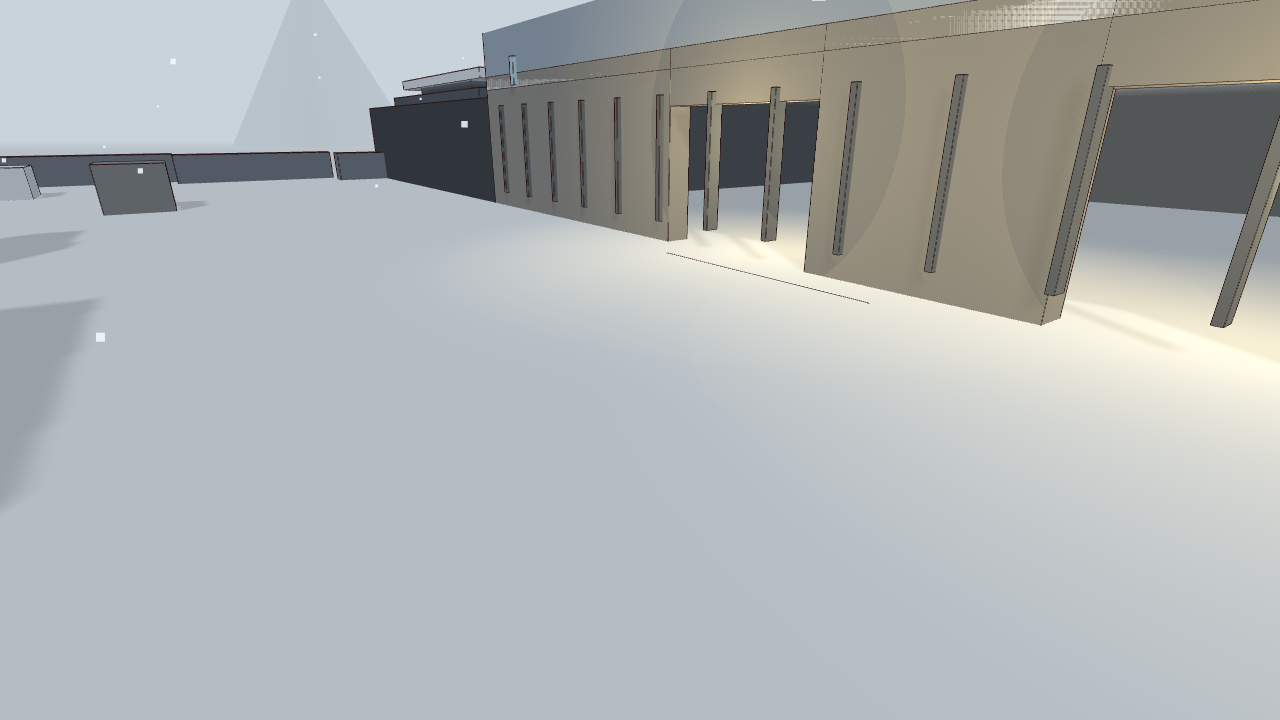
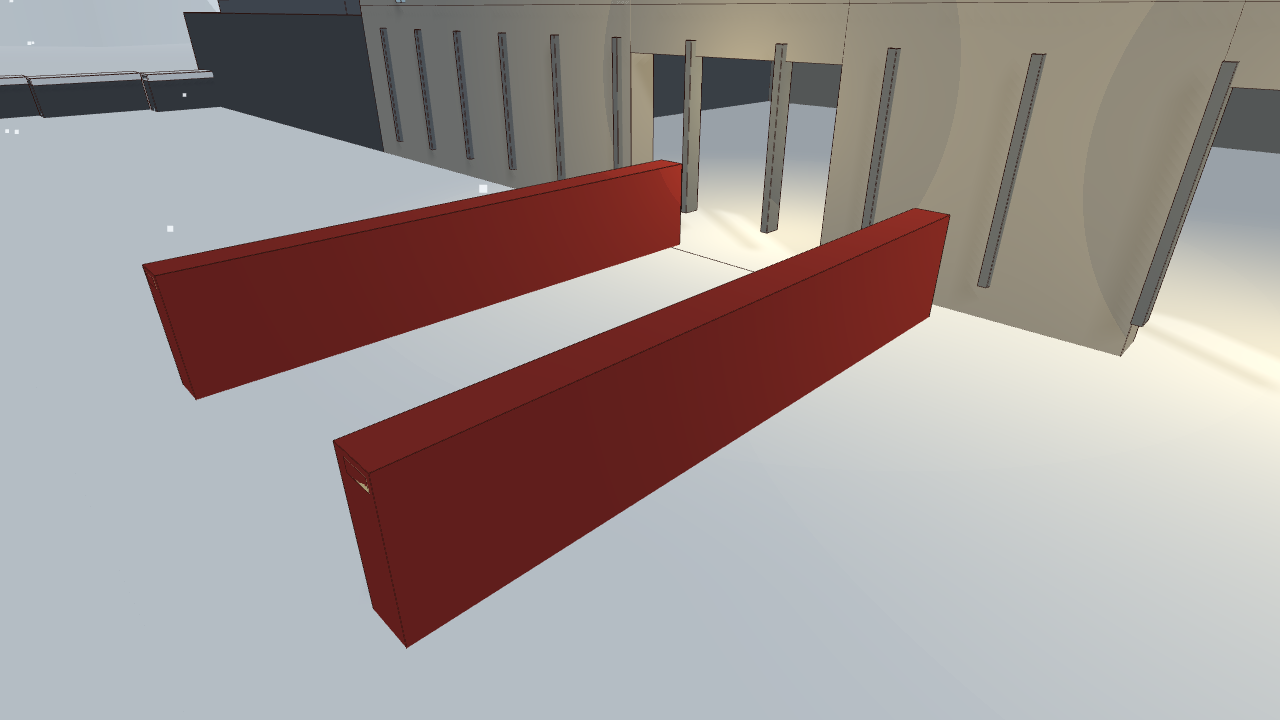
Ajusta o Posto Nevasca na rodada 4: cotas, bordas e a linha de 78 m.
A linha de 78 m era no chão e foi cortada. A Sala Fria passa a 28 por 22 m, alinhada ao prédio do meio, e as bordas leste e oeste ficam só com a mureta de rocha.

diff --git a/maps.js b/maps.js
@@ -542,19 +542,25 @@ export const MAPS = [];
   // encosta oeste: curva de até 5 m, pico em z=-2 (y do pesquisador = 62). Só a borda baixa é visível.
   const bulge = (z) => { const t = (z + 2) / 28; return (t <= -1 || t >= 1) ? 0 : 5 * (1 - t * t); };
   const voids = [], slopes = [];
-  for (let z = -34; z < 28; z += 6) {
-    const z1 = Math.min(28, z + 6);
-    const edge = -24 - Math.max(bulge(z), bulge(z + 3), bulge(z1));
-    boxes.push(B(edge - 0.55, z, edge + 0.15, z1, 1.15, '#7a828c')); // borda de rocha, 1,15 m, mais clara que o muro antigo
+  for (let z = -34; z < 28; z += 3) {
+    const z1 = Math.min(28, z + 3);
+    const edge = -24 - Math.max(bulge(z), bulge(z + 1.5), bulge(z1));
+    boxes.push(B(edge - 0.55, z, edge + 0.15, z1, 1.15, ROCK));
+    boxes.push(B(edge - 0.65, z, edge + 0.25, z1, 0.2, SNOW, 1.0));
     const gap = z1 > -8 && z < 4; // no pico dá para cair
     if (!gap) boxes.push({ b: [edge - 0.35, 0, z, edge + 0.05, 4, z1], hide: true });
     voids.push([-31, z, edge - 0.2, z1]);
     slopes.push({ x0: edge - 16, y0: -30, z0: z, x1: edge - 0.15, y1: 0.15, z1, axis: 'x', dir: 1 });
   }
-  voids.push([-31, 28, -24.2, 60], [-31, -60, -24.2, -34]);
+  voids.push([-31, 28, -24.2, 60], [-31, -60, -24.2, -34], [28.7, -60, 31, 60]);
   slopes.push({ x0: -31, y0: -30, z0: 28, x1: -24.3, y1: 0.15, z1: 58, axis: 'x', dir: 1 });
   slopes.push({ x0: -31, y0: -30, z0: -58, x1: -24.3, y1: 0.15, z1: -34, axis: 'x', dir: 1 });
-  boxes.push(B(26.6, -58, 30.5, 58, 1.15, ROCK)); // leste: borda baixa, não um muro
+  for (let z = -58; z < 58; z += 8) {
+    boxes.push(B(28.2, z, 28.75, Math.min(58, z + 8), 1.15, ROCK));
+    boxes.push(B(28.1, z, 28.9, Math.min(58, z + 8), 0.2, SNOW, 1.0));
+    boxes.push({ b: [28.25, 0, z, 28.55, 4, Math.min(58, z + 8)], hide: true });
+    slopes.push({ x0: 28.55, y0: 0.1, z0: z, x1: 48, y1: -30, z1: Math.min(58, z + 8), axis: 'x', dir: -1 });
+  }
   // mastro da placa, na borda do pico (edge em z=-2 é -29)
   boxes.push(B(-28.85, -2.2, -28.55, -1.8, 2.55, METAL));
   const rock = (x0, z0, x1, z1, h) => {
@@ -566,70 +572,71 @@ export const MAPS = [];
   };
   rock(-27.2, 13, -16.2, 17, 4.2); rock(-26, -34, -12, -30, 4.2);
   rock(-26, -10, -17, -6, 4.2); rock(-24, 48, -17, 51.5, 3.2); rock(-24, -54, -16.5, -50, 3.2);
-  rock(-14, 2, -6, 8, 3.2); rock(-24, 16, -17.2, 22, 3.4); rock(-11, -14, -3, -8, 3.4);
-  boxes.push(B(12.4, -15.6, 17.4, -10.8, 4.5, ROCK), B(13.2, -14.8, 16.5, -11.6, 0.35, SNOW, 4.3));
-  boxes.push(B(-5.4, -1, -2.35, 7, 4.0, CONC)); // ala oeste da Sala Fria, corta a diagonal pro sul
+  rock(-24, 16, -17.2, 22, 3.4); rock(-11, -14, -3, -8, 3.4);
+  rock(14.5, 16.5, 27, 21, 2.4); rock(13.2, -15, 26, -10, 2.4); boxes.push(B(13.2, -15, 26, -10, 1.5, ROCK, -1.5)); rock(12.4, -50, 22, -44, 2.4);
+  boxes.push(B(10.2, -23.8, 13.6, -20.2, 3.8, '#6E5438', -1.5)); // contêiner: corta a linha de 78 m no chão, topo a +2,3 m
+  boxes.push(B(-12.2, -19.6, -7.2, -16.2, 3.8, ROCK, -1.5)); // 2,2 m acima do chão alto, no meio da linha de 61 m
   for (const z of [24, 10, -4, -18]) boxes.push(B(-23.4, z, -21.8, z + 1.5, 1.0, SNOW));
 
   // lab: x −14…10, z 36…46. No eixo do pesquisador (y = 60 − z) isso é y 14…24, x 12…36.
-  boxes.push(...building(-14, 36, 10, 46, { col: { ...col, wall: CONC, wall2: '#c8c2b6' }, floors: 1, H: 3.5, parapet: 0.6,
-    ops: [{ s: 'n', a: -8, b: -5 }, { s: 'n', a: 2, b: 5.2 }, { s: 's', a: -2, b: 1.2 }, { s: 'e', a: 38, b: 41 },
-      { s: 'n', a: -12, b: -9.5, k: 'win', lo: 1.05, hi: 2.15 }, { s: 'w', a: 38, b: 41.2, k: 'win', lo: 1.05, hi: 2.1 }],
-    inner: [{ axis: 'x', s0: -13.4, s1: 9.4, line: 41.2, ops: [{ a: -2.2, b: 1.2 }] }] }));
+  boxes.push(...building(-8, 36, 7, 46, { col: { ...col, wall: CONC, wall2: '#c8c2b6' }, floors: 1, H: 3.5, parapet: 0.6,
+    ops: [{ s: 'n', a: -5, b: -1.6 }, { s: 'n', a: 1.4, b: 4.8 }, { s: 's', a: -2, b: 1.4 }, { s: 'e', a: 38, b: 41 },
+      { s: 'n', a: -7.2, b: -4.6, k: 'win', lo: 1.05, hi: 2.15 }, { s: 'w', a: 38, b: 41.2, k: 'win', lo: 1.05, hi: 2.1 }],
+    inner: [{ axis: 'x', s0: -7.4, s1: 6.4, line: 41.2, ops: [{ a: -1.4, b: 1.6 }] }] }));
   // prédios do meio, 12 m ao sul da rodada 2. Corredor de 3,6 m (x −2…1,6).
   // Oeste: x −16…−2, z 19…31 (14×12 m), 2º piso a +3,4 m. Leste: x 1,6…19,6, z 18…32 (18×14 m).
   boxes.push(...building(-16, 19, -2, 31, { col: { ...col, wall: '#c4bfb4', wall2: CONC }, floors: 2, H, parapet: 1.7,
     ops: [{ s: 'n', a: -10, b: -6.4 }, { s: 's', a: -12, b: -8.4 }, { s: 'e', a: 22, b: 25.6 }, { s: 'w', a: 24, b: 27.4 },
       { s: 'e', a: 26, b: 29.5, f: 1, k: 'win', lo: 0.85, hi: 2.05 }, { s: 'n', a: -10, b: -6, f: 1, k: 'win', lo: 0.85, hi: 2.05 }],
     stairs: [{ f: 0, r: [-13.5, 21.2, -6.8, 24.2], axis: 'x', dir: 1 }] }));
-  boxes.push(...building(1.6, 18, 19.6, 32, { col: { ...col, wall: '#d4cfc4', wall2: CONC }, floors: 2, H, parapet: 1.7,
-    ops: [{ s: 'n', a: 6, b: 9.6, k: 'wide' }, { s: 's', a: 8, b: 11.6 }, { s: 'w', a: 22, b: 25.6 }, { s: 'e', a: 24, b: 27.4 },
-      { s: 's', a: 14, b: 17.5, f: 1, k: 'win', lo: 0.85, hi: 2.05 }],
-    stairs: [{ f: 0, r: [4, 20.2, 11.2, 23.4], axis: 'x', dir: 1 }, { f: 1, r: [4, 26, 11.2, 29.2], axis: 'x', dir: 1 }] }));
-  C(8.5, 28, 1.6, 1.1, '#6E7378', H); C(14, 24, 1.2, 0.9, RUST);
+  boxes.push(...building(1.2, 18, 14.2, 32, { col: { ...col, wall: '#d4cfc4', wall2: CONC }, floors: 2, H, parapet: 1.7,
+    ops: [{ s: 'n', a: 4, b: 7.6, k: 'wide' }, { s: 's', a: 6, b: 9.6 }, { s: 'w', a: 22, b: 25.6 }, { s: 'e', a: 24, b: 27.4 },
+      { s: 's', a: 8, b: 11.4, f: 1, k: 'win', lo: 0.85, hi: 2.05 }],
+    stairs: [{ f: 0, r: [3.2, 20.2, 9.4, 23.4], axis: 'x', dir: 1 }, { f: 1, r: [3.2, 26, 9.4, 29.2], axis: 'x', dir: 1 }] }));
+  C(6.5, 28, 1.6, 1.1, '#6E7378', H); C(11, 24, 1.2, 0.9, RUST);
   for (let z = 20; z < 30; z += 1.6) boxes.push(B(-16.15, z, -15.95, z + 0.1, 3.2, METAL2, 0.15));
   // alas que colam o lab nos prédios do meio: o miolo lê como um bloco, o corredor central fica aberto
-  boxes.push(...building(-16, 31.3, -4, 35.7, { col: { ...col, wall: CONC, wall2: '#c8c2b6' }, floors: 1, H: 3.2, parapet: 0.45,
-    ops: [{ s: 'n', a: -12, b: -8.4 }, { s: 's', a: -12, b: -8.4 }, { s: 'e', a: 32.2, b: 34.8 }] }));
-  boxes.push(...building(4, 32.2, 18, 35.8, { col: { ...col, wall: '#d4cfc4', wall2: CONC }, floors: 1, H: 3.2, parapet: 0.45,
-    ops: [{ s: 'n', a: 8, b: 12 }, { s: 's', a: 8, b: 12 }] }));
-  boxes.push(B(-12, 16.05, 16, 17.9, 0.32, SNOW, 3.15)); // telhado-ponte entre o bloco leste e a Sala Fria
+  boxes.push(...building(-8, 31.3, -2.2, 35.7, { col: { ...col, wall: CONC, wall2: '#c8c2b6' }, floors: 1, H: 3.2, parapet: 0.45,
+    ops: [{ s: 'n', a: -6.4, b: -3.2 }, { s: 's', a: -6.4, b: -3.2 }, { s: 'e', a: 32.2, b: 34.8 }] }));
+  boxes.push(...building(2, 32.2, 12, 35.8, { col: { ...col, wall: '#d4cfc4', wall2: CONC }, floors: 1, H: 3.2, parapet: 0.45,
+    ops: [{ s: 'n', a: 4.4, b: 8 }, { s: 's', a: 4.4, b: 8 }] }));
+  boxes.push(B(1.4, 15.85, 12.2, 18.25, 0.45, SNOW, 3.25)); // telhado entre o bloco leste e a Sala Fria
 
   // SALA FRIA / control room: 22 × 22 m, mezanino a +3,4 m, átrio aberto, 5 portas
   // Sala Fria: x −2…20, z −6…16 → y do pesquisador 44…66, x 24…46.
-  boxes.push(...building(-2, -6, 20, 16, { col: { ...col, wall: CONC, wall2: '#c8c2b6', inner: '#C4BFB4' }, floors: 2, H, roof: false,
-    ops: [{ s: 'w', a: 2.2, b: 5.8 }, { s: 'e', a: 0.2, b: 3.8 }, { s: 'n', a: 6, b: 9.4 }, { s: 's', a: 4, b: 7.6 }, { s: 's', a: 13, b: 16.4 },
-      { s: 's', a: 8.2, b: 12.2, k: 'win', lo: 1.0, hi: 2.15 },
-      { s: 's', a: 8, b: 12.4, f: 1, k: 'win', lo: 0.75, hi: 2.15 }, { s: 'n', a: 8, b: 12.4, f: 1, k: 'win', lo: 0.75, hi: 2.15 },
-      { s: 'w', a: -3.5, b: 0, f: 1, k: 'win', lo: 0.8, hi: 2.05 }, { s: 'e', a: 8, b: 12, f: 1, k: 'win', lo: 0.8, hi: 2.05 }],
-    stairs: [{ f: 0, r: [1.6, 9.2, 10.2, 12.2], axis: 'x', dir: 1 }],
-    floorHoles: { 1: [[-1.4, -5.4, 15.4, 8.4]] } }));
-  boxes.push(...slab(-2, -6, 20, 16, 2 * H, 0.35, SNOW, [[5, -1, 13, 13]]));
+  boxes.push(...building(-16, -6, 12, 16, { col: { ...col, wall: CONC, wall2: '#c8c2b6', inner: '#C4BFB4' }, floors: 2, H, roof: false,
+    ops: [{ s: 'w', a: 2.2, b: 5.8 }, { s: 'e', a: 0.2, b: 3.8 }, { s: 'n', a: -6, b: -2.4 }, { s: 's', a: -8, b: -4.4 }, { s: 's', a: 2, b: 5.6 },
+      { s: 's', a: -2, b: 2, k: 'win', lo: 1.0, hi: 2.15 },
+      { s: 'n', a: -4, b: 0.4, f: 1, k: 'win', lo: 0.75, hi: 2.15 },
+      { s: 'w', a: -3.5, b: 0, f: 1, k: 'win', lo: 0.8, hi: 2.05 }, { s: 'e', a: 4, b: 8, f: 1, k: 'win', lo: 0.8, hi: 2.05 }],
+    stairs: [{ f: 0, r: [-4.2, 9.2, 4.4, 12.2], axis: 'x', dir: 1 }],
+    floorHoles: { 1: [[-10, -5.4, 6, 8.4]] } }));
+  boxes.push(...slab(-16, -6, 12, 16, 2 * H, 0.35, SNOW, [[-6, -1, 2, 11]]));
   // guarda-corpo tubular de 1 m no mezanino
   const tube = (x0, z0, x1, z1) => {
     boxes.push(B(Math.min(x0, x1), Math.min(z0, z1), Math.max(x0, x1), Math.max(z0, z1), 0.07, METAL, H + 0.9));
     boxes.push(B(Math.min(x0, x1), Math.min(z0, z1), Math.max(x0, x1), Math.max(z0, z1), 0.05, METAL, H + 0.42));
   };
-  tube(-1.3, 8.22, 15.1, 8.4); tube(-1.3, -5.45, 15.1, -5.28);
-  tube(15.15, -5.3, 15.32, 8.3); tube(-1.55, -5.3, -1.38, 8.3);
-  for (let x = -1; x <= 14.6; x += 1.8) { boxes.push(B(x, 8.18, x + 0.08, 8.44, 1.0, METAL, H)); boxes.push(B(x, -5.48, x + 0.08, -5.22, 1.0, METAL, H)); }
-  for (let z = -5; z <= 8; z += 1.8) { boxes.push(B(15.12, z, 15.36, z + 0.08, 1.0, METAL, H)); boxes.push(B(-1.58, z, -1.34, z + 0.08, 1.0, METAL, H)); }
-  // consoles com tampo inclinado e telas
-  boxes.push(R(2.4, 0.6, 7.2, 2.2, 0.55, 1.15, 'z', 1, '#3e4852'), R(2.4, 4.2, 7.2, 5.8, 0.55, 1.15, 'z', 1, '#3e4852'));
-  for (const [x, z] of [[3.1, 1.9], [4.6, 1.9], [6.1, 1.9], [3.1, 5.5], [4.6, 5.5], [6.1, 5.5]]) boxes.push(B(x, z, x + 0.7, z + 0.08, 0.42, '#5ee0c8', 0.78));
-  for (const [x, z] of [[16.3, -3.6], [16.3, -1.4], [16.3, 10.2], [16.3, 12.4], [-0.5, -3.2], [3.4, 12.6]]) {
-    boxes.push(B(x, z, x + 0.65, z + 1.35, 2.0, '#8b949c'));
-    boxes.push(B(x + 0.08, z + 0.15, x + 0.57, z + 1.2, 0.06, '#d5dbe0', 0.7), B(x + 0.08, z + 0.15, x + 0.57, z + 1.2, 0.06, '#d5dbe0', 1.35));
+  tube(-9.6, 8.22, 5.6, 8.4); tube(-9.6, -5.45, 5.6, -5.28);
+  tube(5.85, -5.3, 6.05, 8.3); tube(-10.15, -5.3, -9.95, 8.3);
+  for (let x = -9.4; x <= 5.4; x += 1.8) { boxes.push(B(x, 8.18, x + 0.08, 8.44, 1.0, METAL, H)); boxes.push(B(x, -5.48, x + 0.08, -5.22, 1.0, METAL, H)); }
+  for (let z = -5; z <= 8; z += 1.8) { boxes.push(B(5.82, z, 6.08, z + 0.08, 1.0, METAL, H)); boxes.push(B(-10.18, z, -9.92, z + 0.08, 1.0, METAL, H)); }
+  boxes.push(R(-8.2, 0.4, -2.4, 2.2, 0.55, 1.15, 'z', 1, '#3e4852'), R(-8.2, 4.0, -2.4, 5.8, 0.55, 1.15, 'z', 1, '#3e4852'));
+  for (const [x, z] of [[-7.4, 1.85], [-5.6, 1.85], [-3.8, 1.85], [-7.4, 5.4], [-5.6, 5.4], [-3.8, 5.4]]) boxes.push(B(x, z, x + 0.85, z + 0.1, 0.48, '#5ee0c8', 0.82));
+  for (const [x, z] of [[9.6, -3.4], [9.6, -1.2], [9.6, 8.4], [9.6, 10.6], [-14.6, -2.8], [-14.6, 8.8]]) {
+    boxes.push(B(x, z, x + 0.7, z + 1.4, 2.0, '#8b949c'));
+    boxes.push(B(x + 0.08, z + 0.15, x + 0.62, z + 1.25, 0.07, '#e8eef3', 0.65), B(x + 0.08, z + 0.15, x + 0.62, z + 1.25, 0.07, '#e8eef3', 1.3));
   }
-  C(11.2, 13.2, 1.3, 1.05, METAL, H);
-  for (let x = -1; x < 19; x += 1.7) boxes.push(B(x, 15.85, x + 0.12, 16.12, 3.1, METAL2, 0.2));
+  C(-1, 13.2, 1.3, 1.05, METAL, H);
+  for (let x = -15; x < 11; x += 1.7) boxes.push(B(x, 15.85, x + 0.12, 16.12, 3.1, METAL2, 0.2));
+  // beiral arredondado: faixa de neve 30 cm para fora, 32 cm abaixo da laje
+  boxes.push(B(-16.3, -6.3, 12.3, -6, 0.32, SNOW, 6.45), B(-16.3, 16, 12.3, 16.3, 0.32, SNOW, 6.45));
+  boxes.push(B(-16.3, -6, -16, 16, 0.32, SNOW, 6.45), B(12, -6, 12.3, 16, 0.32, SNOW, 6.45));
 
   // salas estreitas a leste (CQB), parede oeste é a da sala fria
-  boxes.push(...building(20, -4, 26, 20, { col, floors: 1, H: 3.3, parapet: 0.4, noWall: ['w0'],
-    ops: [{ s: 'e', a: 0, b: 3 }, { s: 'e', a: 10, b: 13 }, { s: 's', a: 23.4, b: 25.6 }, { s: 'n', a: 20.6, b: 22.4 }],
-    inner: [{ axis: 'x', s0: 20.4, s1: 25.6, line: 6, ops: [{ a: 23.2, b: 25.4 }] }, { axis: 'x', s0: 20.4, s1: 25.6, line: 13, ops: [{ a: 20.8, b: 22.6 }] }] }));
-  boxes.push(B(21.4, 28, 23.2, 32, 2.6, ROCK), B(21.4, -20, 23.2, -16, 2.6, ROCK), B(21.4, -42, 23.2, -38, 2.6, ROCK));
-  boxes.push(B(24.6, 24, 30.2, 28.5, 3.1, ROCK), B(24.6, -10, 30.2, -5.5, 3.1, ROCK), B(24.6, -36, 30.2, -31.5, 3.1, ROCK), B(24.6, 48, 30.2, 52, 3.1, ROCK));
+  boxes.push(...building(12, -2, 18, 14, { col, floors: 1, H: 3.3, parapet: 0.4, noWall: ['w0'],
+    ops: [{ s: 'e', a: 1, b: 4.2 }, { s: 'e', a: 8, b: 11.2 }, { s: 's', a: 13.2, b: 16.2 }, { s: 'n', a: 13.2, b: 16.2 }],
+    inner: [{ axis: 'x', s0: 12.4, s1: 17.6, line: 4, ops: [{ a: 13.4, b: 16.2 }] }, { axis: 'x', s0: 12.4, s1: 17.6, line: 9, ops: [{ a: 12.8, b: 15.4 }] }] }));
 
   // galpão sul + rampa pro telhado (antena)
   boxes.push(...building(-12, -46, 12, -30, { col: { ...col, wall: CONC }, floors: 1, H: 3.6, parapet: 1.15,
@@ -637,13 +644,15 @@ export const MAPS = [];
     roofGaps: [{ s: 'n', a: -2.6, b: 2.6 }] }));
   boxes.push(B(-2.7, -49.4, 2.7, -46, 0.28, SNOW, 3.32), R(-2.2, -55.2, 2.2, -49.2, 0, 3.6, 'z', 1, METAL));
   boxes.push(B(3.55, -38.45, 3.95, -38.05, 6.2, RUST, 3.6), B(3.2, -39.3, 4.3, -38.9, 0.35, RUST, 9.5));
+  boxes.push(B(-4.2, -44.2, 1.4, -39.6, 2.5, METAL2, 3.6)); // casa de máquina: corta a visada pelo telhado
   for (let x = -11; x < 11; x += 1.5) boxes.push(B(x, -30.15, x + 0.1, -29.9, 2.4, METAL2, 0.4));
   // pátio sul a −1,5 m. Lábio na borda norte e escada metálica vindo do galpão.
-  boxes.push(B(-14, -26, 18, -6, 0.3, '#c5ced6', -1.8));
-  boxes.push(B(-14, -6.35, 18, -6, 0.55, ROCK));
-  boxes.push(R(-2.2, -29.2, 2.2, -23.4, -1.5, 0, 'z', -1, '#d5dbe2'));
-  boxes.push(B(-2.45, -29.2, -2.15, -23.4, 1.05, METAL, -1.35), B(2.15, -29.2, 2.45, -23.4, 1.05, METAL, -1.35));
-  boxes.push(B(-2.4, -29.2, -2.22, -23.4, 0.08, METAL2, -0.35), B(2.22, -29.2, 2.4, -23.4, 0.08, METAL2, -0.35));
+  boxes.push(B(-14, -26, 18, -6, 0.28, '#9aa6b0', -1.78));
+  boxes.push(B(-14, -6.4, 18, -6, 1.5, ROCK));
+  boxes.push(R(-1.8, -29.4, 1.8, -23.2, -1.5, 0, 'z', -1, '#8A8D8F'));
+  for (let i = 0; i < 6; i++) boxes.push(B(-1.55, -29.2 + i * 1.0, 1.55, -28.35 + i * 1.0, 0.08, '#d5dbe2', -1.42 + i * 0.25));
+  boxes.push(B(-2.15, -29.6, -1.75, -23.0, 2.7, '#8E2F2A', -1.5), B(1.75, -29.6, 2.15, -23.0, 2.7, '#8E2F2A', -1.5));
+  boxes.push(B(-2.1, -29.6, -1.85, -23.0, 0.1, '#F2D9A0', 1.05), B(1.85, -29.6, 2.1, -23.0, 0.1, '#F2D9A0', 1.05));
 
   // torre treliçada (+8,1 m), a oeste do bloco do meio, fora do corredor
   boxes.push(R(-22.4, 22, -19.6, 30, 0, 4.05, 'z', 1, METAL), B(-22.8, 29.4, -19.2, 32.2, 0.24, METAL, 3.81));
@@ -657,8 +666,8 @@ export const MAPS = [];
   boxes.push(B(-23.2, 39.2, -18.4, 39.45, 1.75, METAL2, 8.15), B(-23.2, 44.35, -21.6, 44.6, 1.75, METAL2, 8.15), B(-19.6, 44.35, -18.4, 44.6, 1.75, METAL2, 8.15));
   boxes.push(B(-23.2, 39.2, -22.95, 44.6, 1.75, METAL2, 8.15), B(-18.65, 39.2, -18.4, 44.6, 1.75, METAL2, 8.15));
   // painel cego de 1,1 m no flanco leste da rampa (olha para SE). Janela de 2 m no norte, entre x −21,6 e −19,6.
-  boxes.push(B(-19.42, 22, -19.18, 26.2, 1.1, METAL, 0.5), B(-19.42, 26.2, -19.18, 30, 1.1, METAL, 2.3));
-  boxes.push(B(-19.42, 32, -19.18, 36.2, 1.1, METAL, 4.6), B(-19.42, 36.2, -19.18, 39.2, 1.1, METAL, 6.4));
+  boxes.push(B(-19.55, 22, -19.22, 42.2, 1.1, METAL, 0.2));
+  boxes.push(B(-19.55, 24, -19.22, 30, 1.1, METAL, 1.6), B(-19.55, 31.4, -19.22, 38, 1.1, METAL, 4.4), B(-19.55, 38, -19.22, 42.2, 1.1, METAL, 6.6));
   // bloqueador alto ~30 m ao sul da rampa, no caminho da visada para o sudeste
   boxes.push(B(-10.4, 0.2, -9.9, 4.6, 6.6, METAL2), B(-12.2, 1.4, -10.6, 4.8, 0.18, METAL, 6.15));
   boxes.push(B(-9.2, 2.2, -8.7, 5.4, 6.6, METAL2));
@@ -677,8 +686,6 @@ export const MAPS = [];
   boxes.push(R(-22.65, 43.15, -17.6, 45.85, 0, gy, 'x', -1, METAL));
   boxes.push({ wp: [-21.3, gy, 44.5] }, { wp: [-24.2, gy, 44.5] }, { wp: [-20.6, 8.15, 42] }, { wp: [-21, 4.05, 31] });
   // dois cabos: cabine → torre → fora do mapa, para a neblina
-  boxes.push(B(-24.6, 43.45, -18.6, 43.72, 0.16, '#c5ccd2', 8.55), B(-24.6, 45.15, -18.6, 45.42, 0.16, '#c5ccd2', 7.7));
-  boxes.push(B(-31.2, 43.45, -24.4, 43.72, 0.16, '#c5ccd2', 11.2), B(-31.2, 45.15, -24.4, 45.42, 0.16, '#c5ccd2', 12.4));
 
   // montes de neve (0,55–1,0 m) e caixotes de cobertura — pátio norte, vão central, pátio sul
   for (const [x, z, s, h] of [[-17.4, 22, 1.8, 1], [-17.4, 27, 1.6, 0.9], [-17.2, 38, 1.7, 1], [-3.4, 33.4, 1.6, 1],
@@ -697,44 +704,51 @@ export const MAPS = [];
     { t: 'truck', x: 1.5, z: -18.5, y: -1.5, c: '#4A4E54' },
     { t: 'pine', x: -21.2, z: -56, s: 1.15 }, { t: 'pine', x: 21.2, z: 55.2, s: 1.25 }, { t: 'pine', x: 23.2, z: 2.2, s: 1.05 },
     { t: 'pine', x: 22.4, z: -27, s: 1.1 }, { t: 'pine', x: -16.2, z: 26.5, s: 0.95 }, { t: 'pine', x: 18.5, z: -52, s: 1.2 },
-    { t: 'sign', x: 6, y: 4.5, z: 16.35, w: 6.2, h: 1.35, rot: 0, text: 'SALA FRIA', bg: RUST, fg: '#F2D9A0' },
+    { t: 'sign', x: -2, y: 4.5, z: 16.35, w: 6.2, h: 1.35, rot: 0, text: 'SALA FRIA', bg: RUST, fg: '#F2D9A0' },
     { t: 'sign', x: -28.7, y: 2.45, z: -2, w: 2.3, h: 1.05, rot: Math.PI / 2, text: 'PENHASCO', bg: RUST, fg: '#fff' },
     { t: 'sign', x: 0, y: 3.2, z: -29.6, w: 5.5, h: 1.2, rot: Math.PI, text: 'GALPÃO', bg: '#3E4248', fg: SNOW },
-    { t: 'sign', x: 4, y: 5.2, z: 15.15, w: 3.2, h: 0.7, rot: Math.PI, text: '09:40', bg: '#1c242c', fg: '#F2D9A0' },
-    { t: 'clock', x: 8.2, y: 5.2, z: 15.15, w: 2.4, h: 0.7, rot: Math.PI },
-    { t: 'sign', x: 12.2, y: 5.2, z: 15.15, w: 3.2, h: 0.7, rot: Math.PI, text: '18:10', bg: '#1c242c', fg: '#F2D9A0' },
-    { t: 'pane', x0: 5.2, z0: -0.8, x1: 8.8, z1: 4.6, y: 6.78, axis: 'y', c: 0xBFDDEB, o: 0.38 },
-    { t: 'pane', x0: 9.2, z0: -0.8, x1: 12.8, z1: 4.6, y: 6.78, axis: 'y', c: 0xBFDDEB, o: 0.38 },
-    { t: 'pane', x0: 5.2, z0: 5.2, x1: 8.8, z1: 10.6, y: 6.78, axis: 'y', c: 0xBFDDEB, o: 0.38 },
-    { t: 'pane', x0: 9.2, z0: 5.2, x1: 12.8, z1: 10.6, y: 6.78, axis: 'y', c: 0xBFDDEB, o: 0.38 },
+    { t: 'sign', x: -6.2, y: 5.2, z: 15.15, w: 2.6, h: 0.7, rot: Math.PI, text: '09:40', bg: '#1c242c', fg: '#F2D9A0' },
+    { t: 'clock', x: -2, y: 5.2, z: 15.15, w: 2.4, h: 0.7, rot: Math.PI },
+    { t: 'sign', x: 2.4, y: 5.2, z: 15.15, w: 2.6, h: 0.7, rot: Math.PI, text: '18:10', bg: '#1c242c', fg: '#F2D9A0' },
+    { t: 'pane', x0: -6, z0: -1, x1: -2, z1: 5, y: 6.72, axis: 'y', c: 0xBFDDEB, o: 0.35 },
+    { t: 'pane', x0: -2, z0: -1, x1: 2, z1: 5, y: 6.72, axis: 'y', c: 0xBFDDEB, o: 0.35 },
+    { t: 'pane', x0: -6, z0: 5, x1: -2, z1: 11, y: 6.72, axis: 'y', c: 0xBFDDEB, o: 0.35 },
+    { t: 'pane', x0: -2, z0: 5, x1: 2, z1: 11, y: 6.72, axis: 'y', c: 0xBFDDEB, o: 0.35 },
+    { t: 'glow', x0: -6, z0: -1, x1: 2, z1: 11, y: 6.55, c: 0xF2D9A0, o: 0.55 },
+    { t: 'cable', x0: -24.2, y0: 5.3, z0: 44.2, x1: -21.2, y1: 12.4, z1: 41.5, c: '#1c2228', r: 0.08 },
+    { t: 'cable', x0: -24.2, y0: 5.3, z0: 45.4, x1: -21.2, y1: 12.4, z1: 42.8, c: '#1c2228', r: 0.08 },
+    { t: 'cable', x0: -21.2, y0: 12.4, z0: 41.5, x1: -38, y1: 20, z1: 28, c: '#1c2228', r: 0.07 },
+    { t: 'cable', x0: -21.2, y0: 12.4, z0: 42.8, x1: -36, y1: 22, z1: 55, c: '#1c2228', r: 0.07 },
     { t: 'pane', x0: -25.5, z0: 43.3, x1: -25.5, z1: 46.2, y: 3.7, h: 1.3, axis: 'z', c: 0xBFDDEB, o: 0.4 },
     { t: 'grate', x0: -26.5, z0: -8, x1: -22.5, z1: 8, y: 0.04 },
     { t: 'dish', x: -6, y: 4.3, z: -38, r: 1.15 }, { t: 'dish', x: 8, y: 4.4, z: -34, r: 0.9 },
     { t: 'heli', x: -62, y: 14, z: -24, rot: 0.4 },
-    { t: 'pine', x: -29.5, z: -2, y: -8, s: 1.5 }, { t: 'pine', x: -30, z: 10, y: -12, s: 1.2 }, { t: 'pine', x: -29.2, z: -16, y: -10, s: 1.35 },
-    { t: 'decal', x0: -0.9, z0: -24, x1: -0.35, z1: -12, y: -1.42, c: 0x3e464c },
-    { t: 'decal', x0: 1.7, z0: -24, x1: 2.25, z1: -13, y: -1.42, c: 0x3e464c },
+    { t: 'pine', x: -31.5, z: -2, y: -2.2, s: 1.7 }, { t: 'pine', x: -30.5, z: 12, y: -2.5, s: 1.5 }, { t: 'pine', x: -30.2, z: -18, y: -2.4, s: 1.6 },
+    { t: 'pine', x: 33, z: 8, y: -2.2, s: 1.6 }, { t: 'pine', x: 34, z: -20, y: -2.6, s: 1.5 }, { t: 'pine', x: 32.5, z: 40, y: -2.2, s: 1.45 },
+    { t: 'decal', x0: -1.3, z0: -25, x1: -0.45, z1: -8, y: -1.46, c: 0x2a3036 },
+    { t: 'decal', x0: 1.5, z0: -25, x1: 2.35, z1: -9, y: -1.46, c: 0x2a3036 },
     { t: 'keg', x: -18.5, z: 14 }, { t: 'keg', x: 22, z: 30 }, { t: 'keg', x: 22, z: 14 },
     { t: 'keg', x: -8.1, z: -14, y: -1.5 }, { t: 'keg', x: 6, z: -16, y: -1.5 }, { t: 'keg', x: -19.3, z: 11 },
   ];
-  const roofs = [[-14, 36, 10, 46, 3.5], [-16, 19, -2, 31, 6.8], [1.6, 18, 19.6, 32, 6.8],
-    [-2, -6, 20, 16, 6.8],
-    [20, -4, 26, 20, 3.3], [-12, -46, 12, -30, 3.6], [-25.9, 42.2, -22.6, 46.8, 5.25], [-23.2, 39.2, -18.4, 44.6, 8.15]];
+  const roofs = [[-8, 36, 7, 46, 3.5], [-16, 19, -2, 31, 6.8], [1.2, 18, 14.2, 32, 6.8],
+    [-16, -6, 12, 16, 6.8],
+    [12, -2, 18, 14, 3.3], [-12, -46, 12, -30, 3.6], [-25.9, 42.2, -22.6, 46.8, 5.25], [-23.2, 39.2, -18.4, 44.6, 8.15]];
   MAPS.push({
     id: 'posto-nevasca', name: 'Posto Nevasca',
-    desc: 'Base no cume: sala fria com mezanino e claraboia, passarela curva no penhasco e salas estreitas a leste.',
+    desc: 'Base no cume: sala fria com mezanino e claraboia, passarela no penhasco e salas estreitas a leste.',
     size: [31, 60], wallH: 0.85, wallColor: [ROCK, ROCK], openMax: 8.5, laneMin: 40,
-    fall: { y: -6, rects: voids, slopes, openWest: true, basins: [[-14, -26, 18, -6, -1.5]], haze: true, pit: '#c5d0d8', floor: -30, slopeColor: '#e7eef3' },
+    fall: { y: -6, rects: voids, slopes, openWest: true, openEast: true, basins: [[-14, -26, 18, -6, -1.5]], haze: true, pit: '#c5d0d8', floor: -30, slopeColor: '#e7eef3' },
+    thumb: { x: 20, y: 36, z: 28, tx: -2, ty: 5, tz: 5 },
     palette: { sky: '#C9D3DC', fog: ['#C9D3DC', 40, 120], hemi: ['#e7eef3', '#8B98A6', 1.55], sun: ['#f4f7fa', 0.72], ground: SNOW, tiles: null, clouds: true, mountains: true,
-      lights: [['#F2D9A0', 8, 2.6, 2, 14, 11], ['#F2D9A0', 10, 2.6, 6, 14, 11], ['#F2D9A0', 6, 5.4, 10, 12, 9], ['#F2D9A0', 4, 5.4, 4, 12, 9], ['#F2D9A0', -8, 2.4, 24, 12, 10], ['#F2D9A0', 10, 2.4, 24, 12, 10], ['#F2D9A0', -1, 2.2, -31, 10, 8], ['#F2D9A0', 6, 2.2, -31, 10, 8]] },
+      lights: [['#F2D9A0', -4, 2.6, 2, 16, 12], ['#F2D9A0', 2, 2.6, 6, 16, 12], ['#F2D9A0', -2, 5.4, 8, 14, 10], ['#F2D9A0', -6, 5.4, 2, 12, 9], ['#F2D9A0', -8, 2.4, 24, 12, 10], ['#F2D9A0', 6, 2.4, 24, 12, 10], ['#F2D9A0', -1, 2.2, -31, 10, 8], ['#F2D9A0', 6, 2.2, -31, 10, 8]] },
     weather: { kind: 'snow', n: 1400, fall: 6.2, wind: [2.3, 0, 0.55], top: 34, color: 0xF7FBFF, size: 0.15, roofs },
     ...fin(boxes), props,
     spawns: [[-6, 40], [2, 38.5], [18, 44], [-0.2, 17.4], [15, 22], [14, 38], [-8, -52], [0, -56], [8, -50], [-4, -58], [6, -44], [-14, -50]],
-    pickups: [['health', 14, 4], ['health', -8, 40], ['health', 10, -20, -1.5], ['health', 2, 38.5], ['health', -5, 28, H],
-      ['ammo', -26.4, -1], ['ammo', 23.2, 8], ['ammo', -9, 27, H], ['ammo', 0, -38, 3.6],
-      ['grenade', 12, 26], ['grenade', 8, -14, -1.5], ['grenade', 14, 11, H]],
-    showcase: [4, 0, 6], view: [-16, 1.6, 2, -0.35, -0.04],
-    test: { stairs: { from: [0.6, 0, 10.7], to: [11.2, H, 10.7], level: H }, roof: { from: [0, 0, -56.2], to: [0, 3.6, -38], level: 3.6 }, under: { from: [17.3, 0, -2.5], to: [17.3, 0, 4.5], ceil: 3.1 } },
+    pickups: [['health', 4, 2], ['health', -4, 40], ['health', 8, -10, -1.5], ['health', 2, 38.5], ['health', -5, 28, H],
+      ['ammo', -26.4, -1], ['ammo', 15.2, 6], ['ammo', -9, 27, H], ['ammo', 0, -38, 3.6],
+      ['grenade', 8, 24], ['grenade', -2, -12, -1.5], ['grenade', 4, 11, H]],
+    showcase: [-2, 0, 4], view: [-16, 1.6, 2, -0.35, -0.04],
+    test: { stairs: { from: [-6.2, 0, 10.7], to: [5.2, H, 10.7], level: H }, roof: { from: [0, 0, -56.2], to: [0, 3.6, -38], level: 3.6 }, under: { from: [15.2, 0, 1], to: [15.2, 0, 7.5], ceil: 3.0 } },
   });
 }
 

diff --git a/world.js b/world.js
@@ -61,6 +61,17 @@ function buildProp(p, ctx) {
       mesh.userData.clock = { canvas, tex, ctx: canvas.getContext('2d') };
       (group.userData.clocks = group.userData.clocks || []).push(mesh); group.add(mesh); break;
     }
+    case 'cable': {
+      const dx = p.x1 - p.x0, dy = p.y1 - p.y0, dz = p.z1 - p.z0, len = Math.hypot(dx, dy, dz) || 0.01;
+      const m = new THREE.Mesh(new THREE.CylinderGeometry(p.r || 0.07, p.r || 0.07, len, 5), toon(p.c || '#2c3338'));
+      m.position.set((p.x0 + p.x1) / 2, (p.y0 + p.y1) / 2, (p.z0 + p.z1) / 2);
+      m.quaternion.setFromUnitVectors(new THREE.Vector3(0, 1, 0), new THREE.Vector3(dx / len, dy / len, dz / len));
+      group.add(m); break;
+    }
+    case 'glow': {
+      const m = new THREE.Mesh(new THREE.PlaneGeometry(Math.abs(p.x1 - p.x0), Math.abs(p.z1 - p.z0)), new THREE.MeshBasicMaterial({ color: p.c || 0xF2D9A0, transparent: true, opacity: p.o || 0.85, depthWrite: false }));
+      m.rotation.x = -Math.PI / 2; m.position.set((p.x0 + p.x1) / 2, p.y, (p.z0 + p.z1) / 2); group.add(m); break;
+    }
     case 'decal': {
       const m = new THREE.Mesh(new THREE.PlaneGeometry(Math.abs(p.x1 - p.x0), Math.abs(p.z1 - p.z0)), new THREE.MeshBasicMaterial({ color: p.c || 0x4a5258 }));
       m.rotation.x = -Math.PI / 2; m.position.set((p.x0 + p.x1) / 2, p.y || 0.02, (p.z0 + p.z1) / 2); group.add(m); break;
@@ -311,9 +322,10 @@ export function buildWorld(map) {
   // limites do mapa (visual na altura wallH; colisão bem alta)
   const wh = map.wallH || 4, [wc1, wc2] = map.wallColor || ['#e86a5c', '#d85a4c'];
   add(-hx - 1, 0, -hz - 1, hx + 1, wh, -hz, wc1, null, WALL_COLLIDE_H); add(-hx - 1, 0, hz, hx + 1, wh, hz + 1, wc1, null, WALL_COLLIDE_H);
-  if (map.fall && map.fall.openWest) solid(-hx - 1, 0, -hz, -hx, WALL_COLLIDE_H, hz); // colisor da borda oeste, sem muro visível
+  if (map.fall && map.fall.openWest) solid(-hx - 1, 0, -hz, -hx, WALL_COLLIDE_H, hz);
   else add(-hx - 1, 0, -hz, -hx, wh, hz, wc2, null, WALL_COLLIDE_H);
-  add(hx, 0, -hz, hx + 1, wh, hz, wc2, null, WALL_COLLIDE_H);
+  if (map.fall && map.fall.openEast) solid(hx, 0, -hz, hx + 1, WALL_COLLIDE_H, hz);
+  else add(hx, 0, -hz, hx + 1, wh, hz, wc2, null, WALL_COLLIDE_H);
   // caixas e rampas do mapa
   for (const o of map.boxes) {
     const [x0, y0, z0, x1, y1, z1] = o.b; if (x1 - x0 < 0.01 || y1 - y0 < 0.01 || z1 - z0 < 0.01) continue;
@@ -429,8 +441,9 @@ export function renderThumb(map, w = 320, h = 180) {
   const [hx, hz] = map.size, long = Math.max(hx, hz);
   const cam = new THREE.PerspectiveCamera(36, w / h, 1, 600);
   const d = long * 1.55 + 8;
-  if (hz > hx * 1.2) cam.position.set(d * 0.78, d * 0.72, 0); else cam.position.set(0, d * 0.72, d * 0.78);
-  cam.lookAt(0, 0, 0);
+  if (map.thumb) { cam.position.set(map.thumb.x, map.thumb.y, map.thumb.z); cam.lookAt(map.thumb.tx, map.thumb.ty, map.thumb.tz); }
+  else if (hz > hx * 1.2) { cam.position.set(d * 0.78, d * 0.72, 0); cam.lookAt(0, 0, 0); }
+  else { cam.position.set(0, d * 0.72, d * 0.78); cam.lookAt(0, 0, 0); }
   thumbRenderer.render(scene, cam);
   const url = thumbRenderer.domElement.toDataURL('image/jpeg', 0.85);
   disposeWorld(group);

diff --git a/MAPS_NOTES.md b/MAPS_NOTES.md
@@ -60,6 +60,14 @@ Spawns: 6 no norte (z 38…52) e 6 no sul (z −58…−44), distância mínima 
 
 Linha longa medida na auditoria: cerca de 100 m (a passarela ainda está reta demais; a meta do dossiê é 40–60 m). Visão quebrada: ~22% dos pares a ≥ 10 m se enxergam (teto do teste: 30%). Ponto mais aberto: 7,2 m.
 
+## Posto Nevasca — rodada 4
+
+A linha de 77,8 m da rodada 3 era no chão: origem x 23,9 z −59,1, olho 1,6 m; destino x −0,1 z 14,9, olho 1,6 m. Um contêiner no pátio sul, a cerca de 39 m da origem, corta essa linha. O novo máximo da mesma amostra é **57 m**, pelo nível dos telhados: x 5,9 z −45,1 olho 5,2 até x −6,1 z 10,9 olho 5,0.
+
+Sala Fria 28 × 22 m em x −16…12, z −6…16 (pesquisador x 10…38, y 44…66), alinhada à borda oeste do prédio do meio. Lab 15 × 10 m em x −8…7, z 36…46. Prédio leste 13 × 14 m em x 1,2…14,2, z 18…32. A passarela fica a oeste, por fora da Sala Fria. Planta em `screenshots/18-mapa-posto-nevasca-planta.png`. Log em `screenshots/18-mapa-posto-nevasca-raycast.txt`.
+
+As bordas leste e oeste não desenham o muro do limite. Fica a borda de rocha de 1,15 m em #4A4E54, o colisor invisível de 4 m e a encosta até −30 m.
+
 ## Posto Nevasca — rodada 3
 
 Coordenadas atuais, no motor (x oeste negativo, z norte positivo) e na convenção do pesquisador (x_p = x + 26, y_p = 60 − z):
